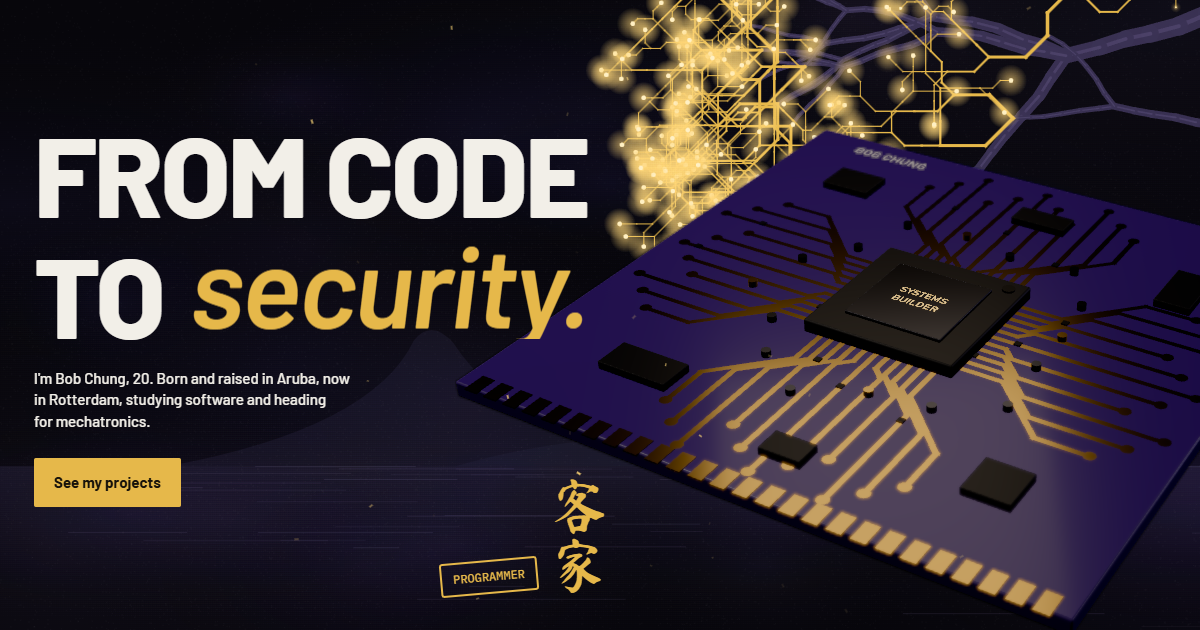
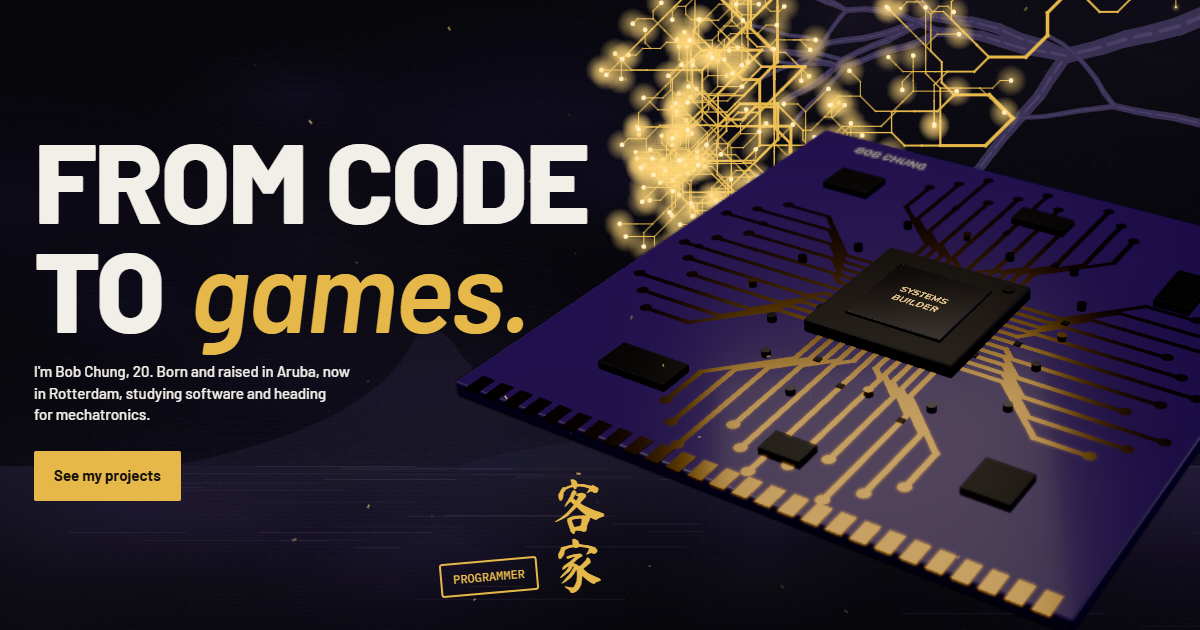
journey: the rolling word stands on its line with its tail whole, and the share image shot again

diff --git a/src/ui/journey/FirstView.tsx b/src/ui/journey/FirstView.tsx
@@ -26,9 +26,9 @@ export function FirstView({ age }: FirstViewProps): JSX.Element {
       const out = words[current];
       current = (current + 1) % words.length;
       const next = words[current];
-      out.style.transform = 'translateY(-110%)';
+      out.style.transform = 'translateY(-120%)';
       next.style.transition = 'none';
-      next.style.transform = 'translateY(110%)';
+      next.style.transform = 'translateY(120%)';
       void next.offsetWidth;
       next.style.transition = '';
       next.style.transform = 'none';
@@ -37,7 +37,7 @@ export function FirstView({ age }: FirstViewProps): JSX.Element {
         if (words[current] === out) return;
         // Out of sight at the top, it goes back under at once: not down through the window.
         out.style.transition = 'none';
-        out.style.transform = 'translateY(110%)';
+        out.style.transform = 'translateY(120%)';
         void out.offsetWidth;
         out.style.transition = '';
       }, ROLL_MS);
@@ -58,7 +58,7 @@ export function FirstView({ age }: FirstViewProps): JSX.Element {
             {hero.to}{' '}
             <span ref={swap} className="j-swap">
               {hero.words.map((word, i) => (
-                <span key={word} style={i === 0 ? undefined : { transform: 'translateY(110%)' }}>
+                <span key={word} style={i === 0 ? undefined : { transform: 'translateY(120%)' }}>
                   {word}
                 </span>
               ))}

diff --git a/src/styles/journey.css b/src/styles/journey.css
@@ -194,7 +194,9 @@ html[data-route='journey'] .site-header {
 .j-swap {
   display: inline-block;
   position: relative;
-  height: 1.02em;
+  /* Tall enough for a g, and pulled in again below so that the tail does not push the next line. */
+  height: 1.16em;
+  margin-bottom: -0.2em;
   overflow: hidden;
   min-width: 5.6em;
   text-transform: none;
@@ -203,6 +205,12 @@ html[data-route='journey'] .site-header {
   color: var(--j-gold);
   letter-spacing: -0.02em;
   vertical-align: baseline;
+}
+
+/* An empty line to give the box a baseline: the word then stands on the line of the word before it. */
+.j-swap::before {
+  content: '\00a0';
+  line-height: 1.02;
 }
 
 .j-swap span {
